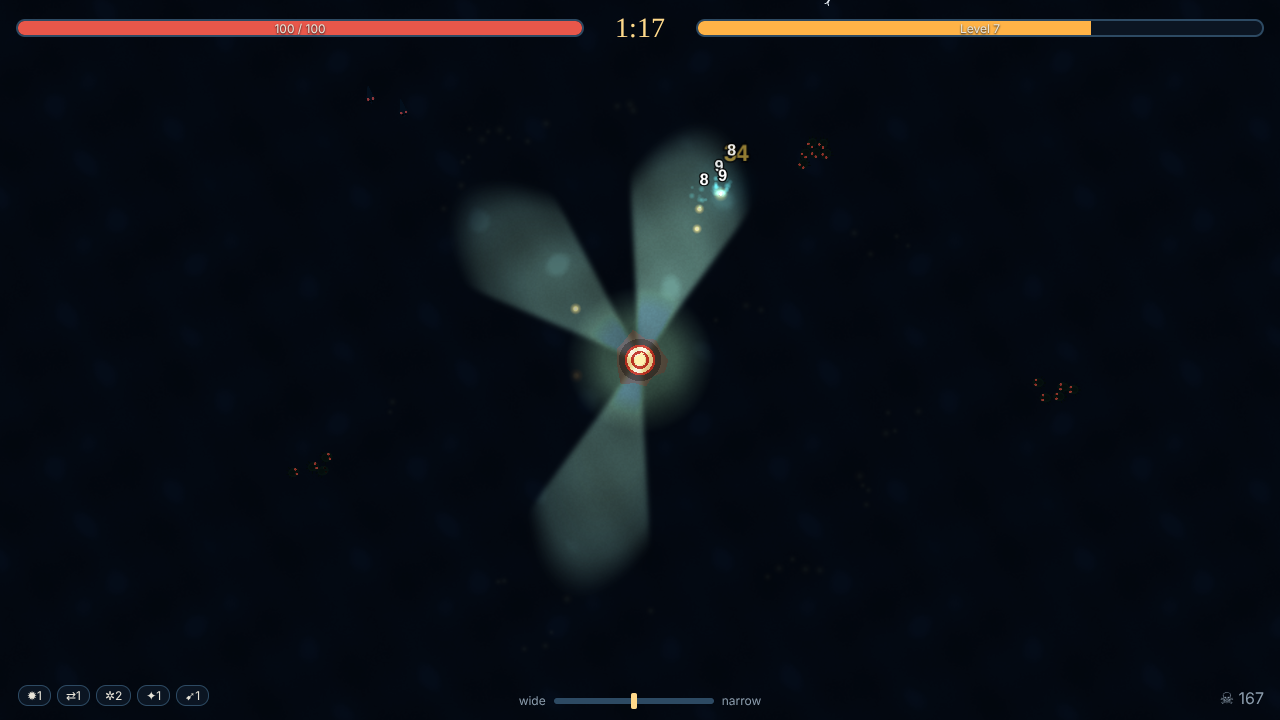
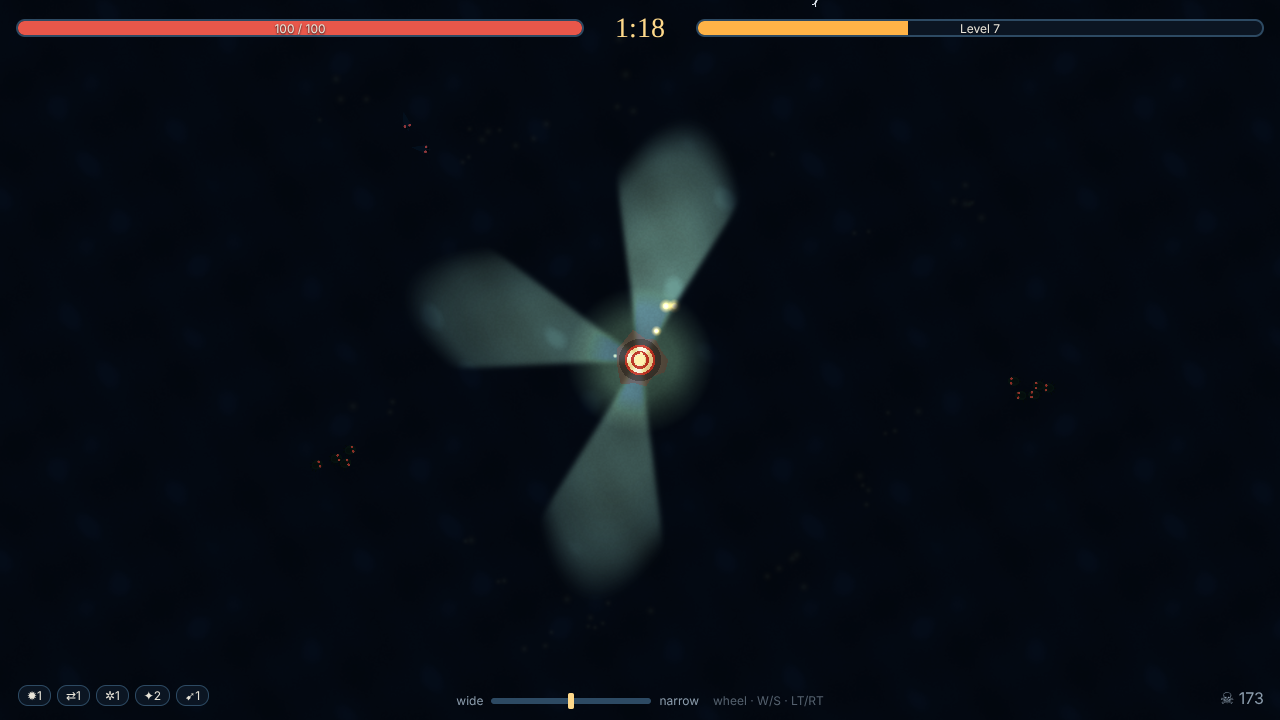
itch.io kit: cover image script, clean screenshot mode, full ITCH.md
Claude-Session: https://claude.ai/code/session_013c4jhh87XePh3AQefsztWg

diff --git a/src/render/renderer.ts b/src/render/renderer.ts
@@ -77,6 +77,8 @@ export class GameRenderer {
   readonly rings = new Rings();
   readonly arcs = new Arcs();
   readonly shake = new Shake();
+  /** debug/marketing: hide damage numbers (?clean=1) */
+  showNumbers = true;
   private arcsDrawn = false;
   private hurtFlash = 0;
   private flashT = 0;
@@ -489,6 +491,7 @@ export class GameRenderer {
       }
     }
     this.digits.end();
+    this.digits.pc.visible = this.showNumbers;
 
     const R = this.rings;
     for (let k = 0; k < this.ringSprites.length; k++) {

diff --git a/src/main.ts b/src/main.ts
@@ -374,6 +374,7 @@ async function boot(): Promise<void> {
   });
   document.getElementById('game')!.appendChild(app.canvas);
   const renderer = new GameRenderer(app);
+  renderer.showNumbers = params.get('clean') !== '1';
   app.renderer.on('resize', () => renderer.resize());
   const inputs = new InputManager(app.canvas);
   const audio = new Audio();

diff --git a/ITCH.md b/ITCH.md
@@ -1,35 +1,58 @@
-# Lighthouse — itch.io page
+# Lighthouse: itch.io upload kit
 
-**Tagline:** You are the last lighthouse. Hold back the night sea for fifteen minutes.
+## Files
+- **Game upload:** `release/lighthouse-itch.zip` (`npm run build && npm run package`), about 195 KB, with `index.html` at the root
+- **Cover image:** `release/itch/cover-630x500.png` (2x version: `cover-1260x1000.png`; itch accepts either, same 315:250 ratio) (`node scripts/cover.mjs`)
+- **Screenshots:** `screenshots/gameplay-early.png`, `gameplay-leviathan.png`, `gameplay-kraken.png`, `gameplay-late.png`, `colorblind-crt.png`, `menu.png`, `levelup.png` (`node scripts/screenshots.mjs`)
 
-## Short description
-Things crawl out of the dark water toward your rock. You can't move. You can only aim the light.
+## Project settings (Dashboard → Create new project)
+| Field | Value |
+|---|---|
+| Title | Lighthouse |
+| Project URL | `lighthouse` (or `last-lighthouse` if taken) |
+| Short description / tagline | You are the last lighthouse. Aim the light and hold back the night sea until dawn. |
+| Classification | Games |
+| Kind of project | **HTML** |
+| Release status | Released (or "Prototype" while you're still playtesting) |
+| Pricing | No payments, or "Donate" with a suggested amount |
+| Uploads | `lighthouse-itch.zip`, tick **This file will be played in the browser** |
+| Embed options | Viewport **1280 × 720**, tick **Click to launch in fullscreen** off, tick **Fullscreen button** on; leave **Mobile friendly** off (no touch controls); **Automatically start on page load** off |
+| Frame options | Tick **SharedArrayBuffer support** off (not needed); scrollbars off |
+| Genre | Action |
+| Tags (up to 10) | `bullet-hell`, `roguelite`, `survival`, `arcade`, `top-down`, `dark`, `atmospheric`, `upgrades`, `gamepad`, `singleplayer` |
+| App store links / community | Comments on |
+| Visibility | **Draft** first, check the embed, then Public |
 
-Sweep a beam of light across the night sea and burn back eels, crabs, splitting jellies, shielded ships, spitters and burrowers. Narrow the beam to burn hard, widen it to cover more. Gather the embers they leave behind, but only the ones your light touches drift home. Level up, pick from 20 upgrades (rear lamps, harpoon turrets, chain lightning, lantern drones, fog horns…), max out the right pairs for four evolutions, and survive three bosses until dawn.
+Under "Metadata": Inputs = Keyboard, Mouse, Xbox controller, Playstation controller. Accessibility = Color-blind friendly, Configurable controls is *not* accurate (keys are fixed), so leave that unticked. Average session = "About a half-hour". Languages = English.
 
-## Controls
+## Description (paste into the page body)
+
+**You are the last lighthouse.**
+
+Things crawl out of the night sea toward your rock. You can't move. You can only aim the light.
+
+Sweep your beam across the dark water and burn back what's coming. Narrow the beam to burn hard, widen it to cover more. Outside the light there is only the night, and the eyes in it.
+
+**Survive fifteen minutes. Then face what rises at dawn.**
+
+- **One beam, two choices.** Aim with the mouse or a stick, and trade width for intensity with the wheel or triggers.
+- **Eight kinds of horror.** Swarmers, armoured crabs, darting eels, jellies that split, spitters that shoot from the dark, burrowers you can't see coming, and ships behind shields that only a focused beam breaks quickly.
+- **Three bosses** at 5, 10 and 15 minutes.
+- **Embers only come home in the light.** Everything you kill drops embers, but they only drift back to the rock while your beam is on them.
+- **20 upgrades, 5 levels each:** a rear lamp, a sweeping third beam, harpoon turrets, chain lightning, burning light, lantern drones, fog horns, a flash nova and more. Max out the right pair to unlock one of **4 evolutions**.
+- **Keeper's upgrades.** Every run earns coins for 8 permanent upgrades.
+- Colour-blind palette, screen-shake slider, optional CRT vignette, full gamepad support.
+- No downloads: the whole game, art and sound, is generated in your browser (about 200 KB).
+
+**Controls**
+
 | | Mouse & keyboard | Gamepad |
 |---|---|---|
 | Aim | Mouse, or A / D | Right stick (left stick turns) |
-| Focus (narrow / wide) | Mouse wheel, or W / S | RT / LT |
+| Focus the beam | Mouse wheel, or W / S | RT narrows, LT widens |
 | Pause | Esc or P | Start |
-| Pick upgrade | Click, or 1 / 2 / 3 | D-pad + A |
+| Pick an upgrade | Click, or 1 / 2 / 3 | D-pad + A |
 
-## Features
-- 8 enemy types and 3 bosses (5:00, 10:00, 15:00)
-- 20 upgrades with 5 levels each, plus 4 evolutions
-- 8 permanent keeper's upgrades bought with coins between runs
-- Real darkness: enemies outside your light are only eyes in the night
-- Colour-blind palette, screen-shake slider, CRT vignette, volume controls
-- Fully playable with a gamepad
-- Synthesised sound, no downloads: about 200 KB
+Sound starts after your first click or key press. Best played in fullscreen.
 
-## Upload settings (itch.io)
-- Kind of project: **HTML**
-- Upload `release/lighthouse-itch.zip` and tick **"This file will be played in the browser"**
-- Viewport: 1280 × 720, tick **Fullscreen button**, and **Mobile friendly: off** (no touch controls)
-- Genre: Action / Survival. Tags: `bullet-heaven`, `roguelite`, `arcade`, `dark`, `gamepad`, `lighthouse`
-- Screenshots: `screenshots/gameplay-*.png`, `screenshots/menu.png`, `screenshots/levelup.png`, `screenshots/colorblind-crt.png`
-
-## Credits
-Design, code, art (generated at runtime) and sound (synthesised at runtime): made with Vite, TypeScript and PixiJS v8.
+*Made with TypeScript and PixiJS.*
